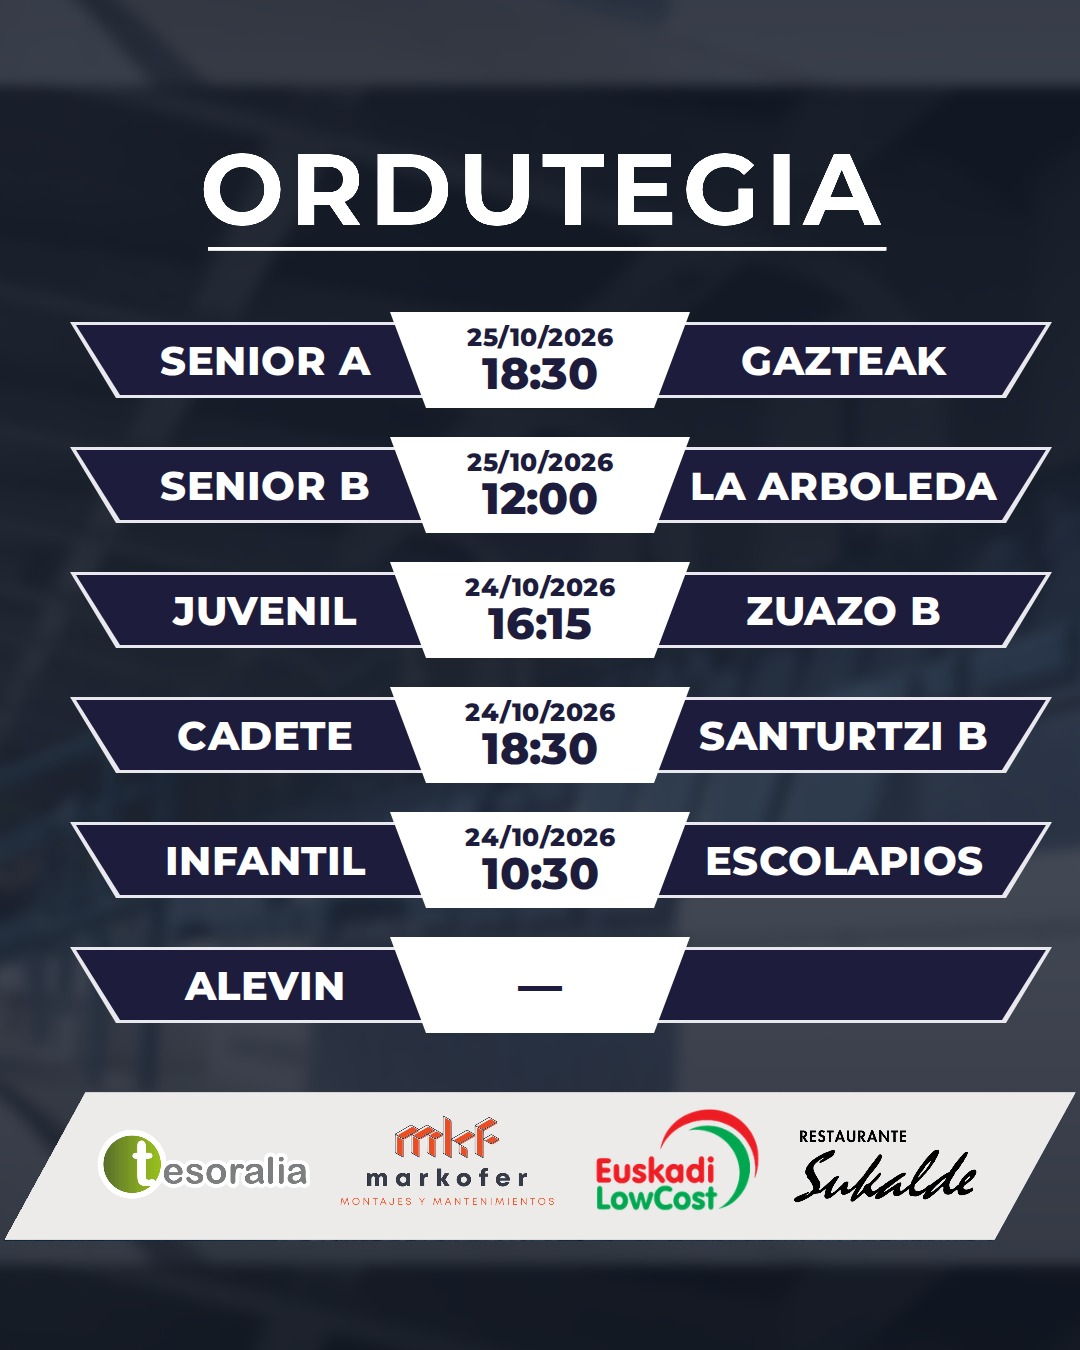
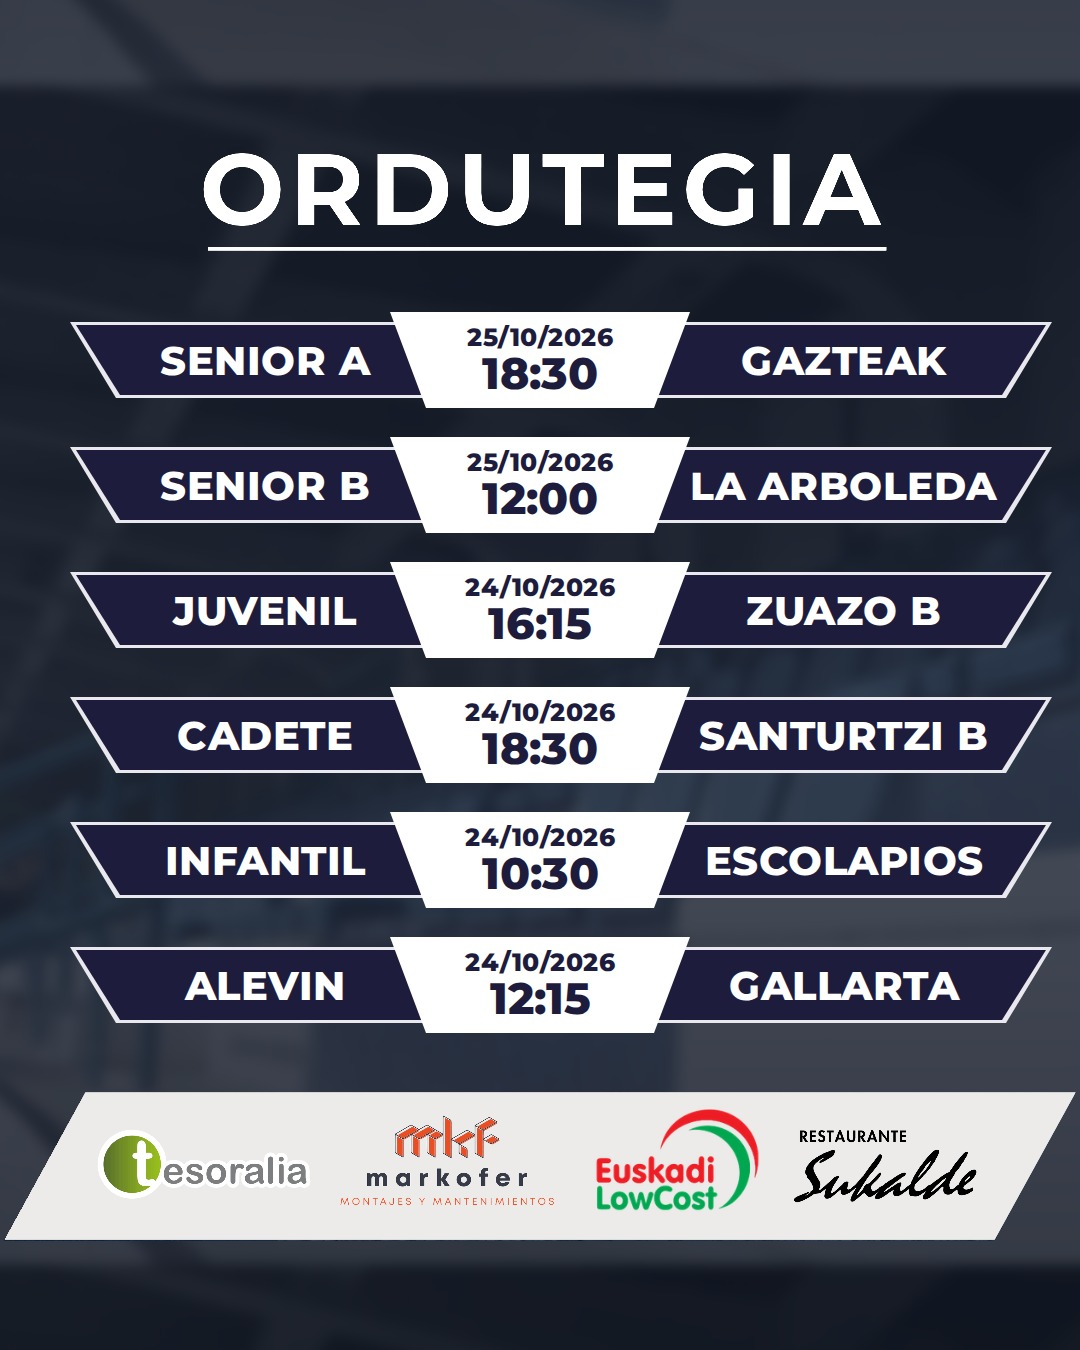
Amistoso: anadir

Changed region(s): [[0.4278, 0.6844, 0.5806, 0.7778], [0.6722, 0.7156, 0.8861, 0.7467]]

diff --git a/datos-amistosos.js b/datos-amistosos.js
@@ -10,5 +10,16 @@ window.AMISTOSOS = [
   "campo": null,
   "gl": null,
   "gv": null
+ },
+ {
+  "id": "2026-10-24-alevin-gallarta",
+  "equipo": "alevin",
+  "fecha": "2026-10-24",
+  "hora": "12:15",
+  "rival": "Gallarta",
+  "casa": true,
+  "campo": null,
+  "gl": null,
+  "gv": null
  }
 ];
